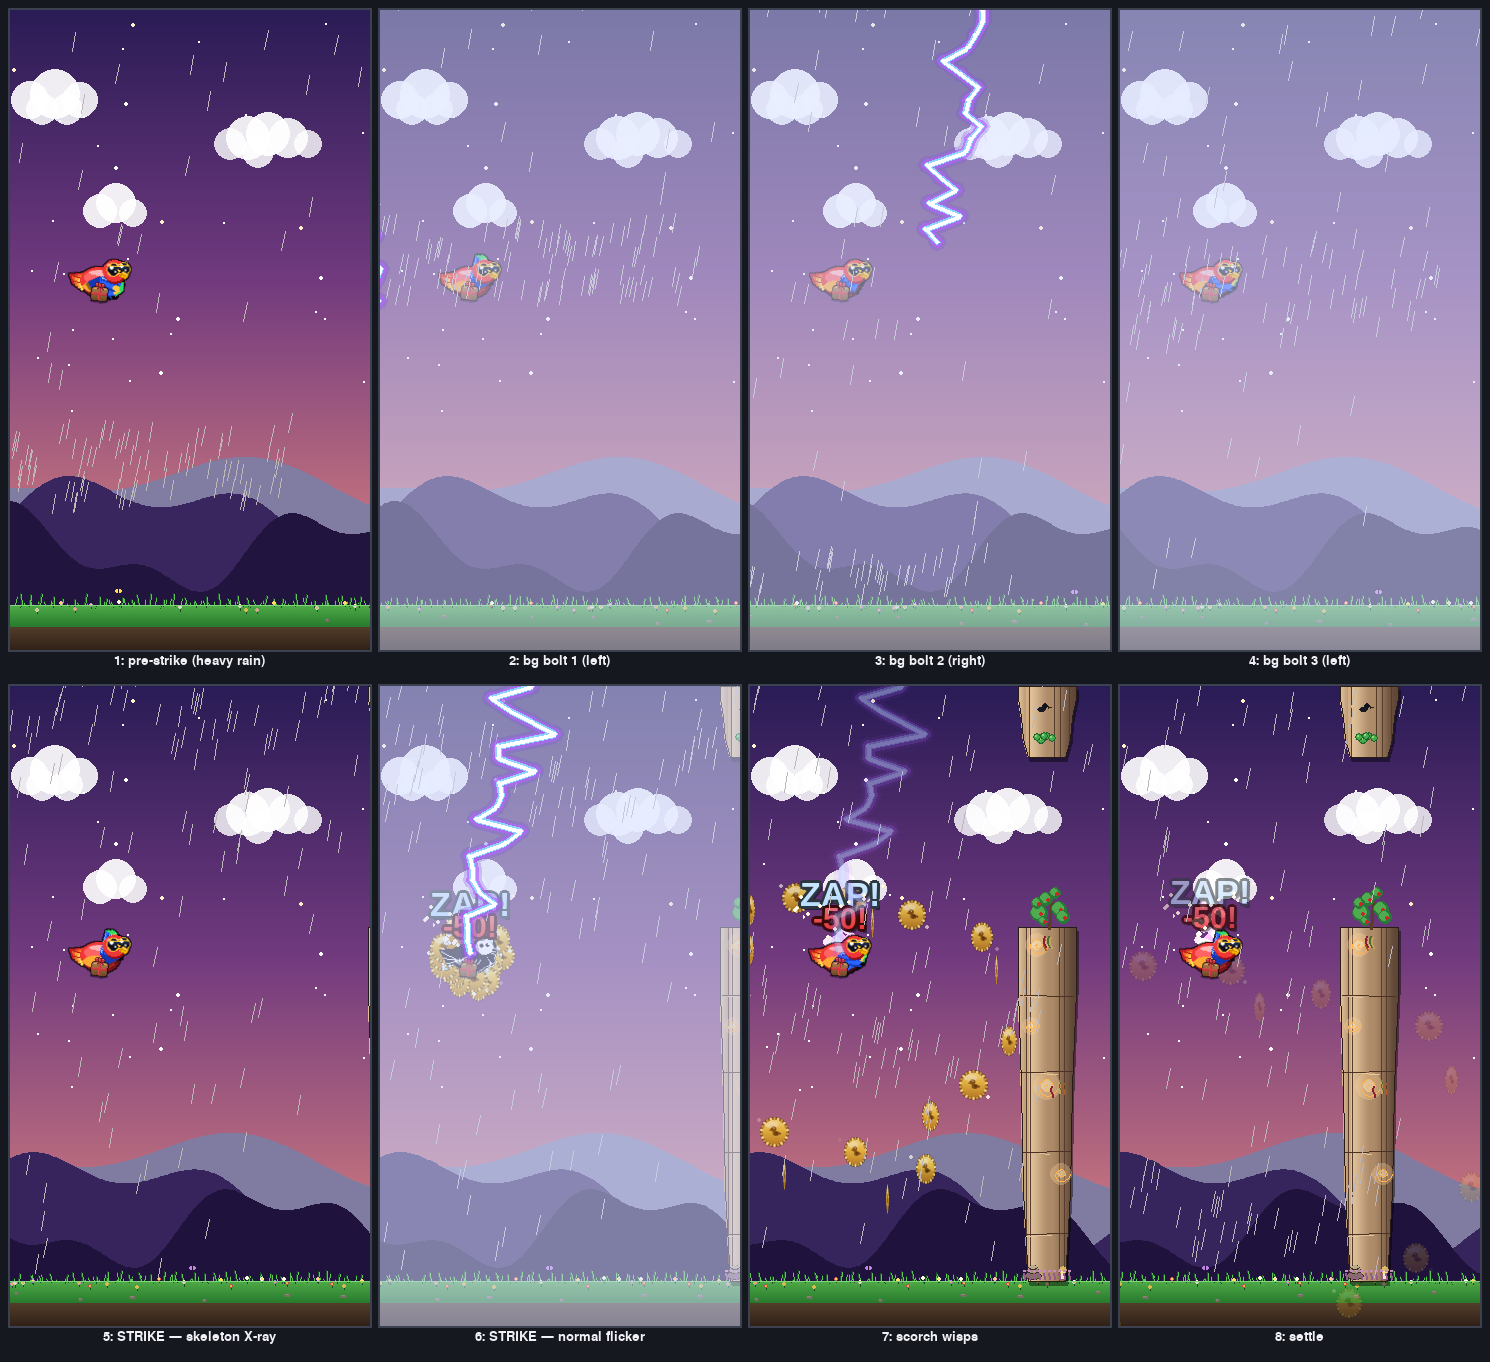
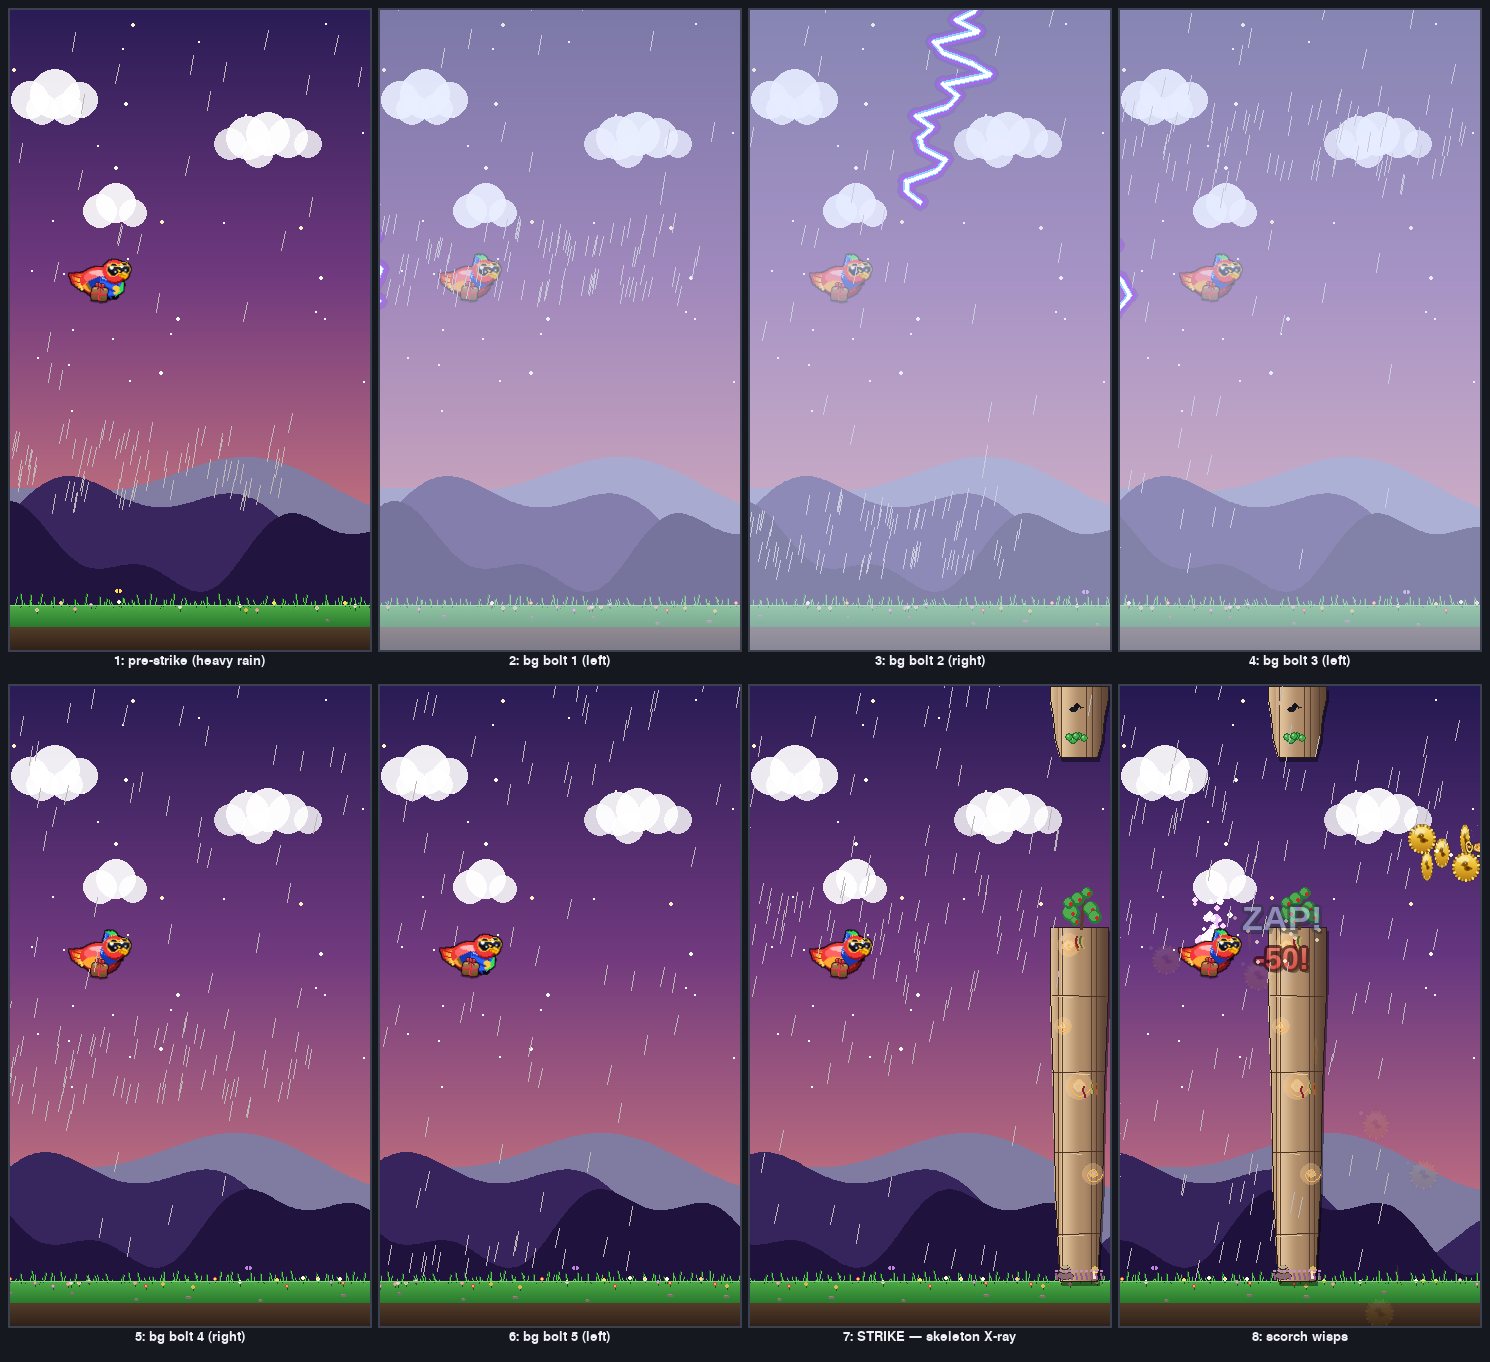
lightning: 5 buildup bolts + longer skeleton flash + text off Pip
Three playtest-driven refinements to the storm-jolt sequence:

1. FIVE background bolts instead of three.
   _start_storm_buildup queue extended from 3 → 5 bg events with
   accelerating tempo, alternating sides L/R/L/R/L:
       0.00 s bg_left
       0.50 s bg_right
       0.95 s bg_left
       1.40 s bg_right
       1.80 s bg_left
       2.30 s STRIKE (was 1.90 s in the 3-bolt version)
   Total buildup duration 1.9 → 2.3 s — more dramatic tension.

2. Skeleton flash extended + more readable.
   * Duration 0.50 s → 0.80 s.
   * Two-phase timing in Bird.draw:
       - First 0.5 s: SOLID skeleton hold (no strobe) so the X-ray
         view is unmistakably visible.
       - Last 0.3 s: ~6 Hz strobe (2-3 alternations) for the
         cartoon-flicker tail.
     Replaces the old uniform 10 Hz strobe that the player
     reported couldn't catch.
   * Scorch wisp timer bumped 0.7 → 1.0 s so the smoking
     aftermath persists for ~0.2 s after the flash ends.

3. ZAP! / -50! text moved off Pip.
   The float text was previously spawned directly above Pip
   (y - 48, y - 26) which sat on top of his 64 px sprite during
   the skeleton flash, occluding the bone silhouette. Both
   texts are now spawned at bird.x + 72 (well clear of Pip's
   right wing), stacked vertically (ZAP! at y - 22, -50! at
   y + 14). They still drift up with vy=-34/-30 so they end
   above-and-right of his head, leaving the skeleton view
   unobstructed for the full 0.8 s flash.
[…]

diff --git a/game/world.py b/game/world.py
@@ -1593,16 +1593,19 @@ class World:
 
     def _start_storm_buildup(self):
         """Telegraph the incoming strike with background lightning.
-        Queues 3 near-miss bolts on alternating sides (each a real
-        flash + bolt + light shake but NO coin loss) over ~1.4 s, then
-        the real `_fire_storm_jolt` lands at t=1.9 s. Lockout is set
+        Queues FIVE near-miss bolts on alternating sides (each a
+        real flash + bolt + light shake but NO coin loss), tempo
+        accelerating toward the strike for dramatic tension. The
+        real `_fire_storm_jolt` lands at t=2.30 s. Lockout is set
         immediately so the trigger can't re-fire mid-buildup; the
         25-second cooldown starts from the buildup, not the strike."""
         self._storm_buildup_seq = [
             (0.00, "bg_left"),
-            (0.60, "bg_right"),
-            (1.20, "bg_left"),
-            (1.90, "strike"),
+            (0.50, "bg_right"),
+            (0.95, "bg_left"),
+            (1.40, "bg_right"),
+            (1.80, "bg_left"),
+            (2.30, "strike"),
         ]
         self._storm_buildup_t = 0.0
         # Reserve the slot — prevents re-trigger during buildup.
@@ -1707,15 +1710,17 @@ class World:
         self.shake_t = max(self.shake_t, 0.55)
         # Lockout — one strike per ~25s of peak storm.
         self._storm_jolt_lockout = 25.0
-        # Scorch sub-state — smoke wisps off Pip for the next 0.7s.
-        self._lightning_scorch_t = 0.7
+        # Scorch sub-state — smoke wisps off Pip for the next 1.0 s
+        # (bumped from 0.7 s so the smoking aftermath persists for a
+        # beat after the skeleton flash ends).
+        self._lightning_scorch_t = 1.0
         self._scorch_smoke_accum = 0.0
-        # X-Ray Sparks flash — Pip's body flickers between his normal
-        # sprite and a dark-silhouette-plus-white-skeleton sprite at
-        # ~10Hz across 0.5s. Ends just before the scorch wisps finish
-        # so the visual reads as "electrocution moment → smoking
-        # aftermath".
-        self.bird.skeleton_flash_t = 0.50
+        # X-Ray Sparks flash — Pip's body shows the dark-silhouette-
+        # plus-white-skeleton sprite for 0.8 s. Held SOLID for the
+        # first ~0.5 s so the X-ray is clearly readable, then
+        # strobes at ~6 Hz for the last ~0.3 s for the cartoon
+        # electrocution flicker. Strobe logic lives in Bird.draw.
+        self.bird.skeleton_flash_t = 0.80
 
         # ── Coin blast: faster spread than the previous gust version
         # so the lightning impulse reads as the cause.
@@ -1751,13 +1756,18 @@ class World:
                 gravity=180,
             ))
 
-        # ── Text: cyan ZAP! above the red -50!
+        # ── Text: cyan ZAP! + red -50! — placed well to the RIGHT
+        # of Pip (clear of his 64 px sprite width) so the X-Ray
+        # Sparks skeleton flicker stays unobstructed during the
+        # 0.8 s flash. Both drift up over their life so they end
+        # above-and-right of his head.
         self.float_texts.append(FloatText(
-            "ZAP!", self.bird.x, self.bird.y - 48, (180, 220, 255),
+            "ZAP!", self.bird.x + 72, self.bird.y - 22,
+            (180, 220, 255),
             size=34, life=1.2, vy=-34, style="powerup",
         ))
         self.float_texts.append(FloatText(
-            f"-{lost}!", self.bird.x, self.bird.y - 26, UI_RED,
+            f"-{lost}!", self.bird.x + 72, self.bird.y + 14, UI_RED,
             size=30, life=1.4, vy=-30, style="powerup",
         ))
 

diff --git a/tools/render_lightning_sequence.py b/tools/render_lightning_sequence.py
@@ -114,65 +114,39 @@ def main():
     panels.append(surf)
     labels.append("1: pre-strike (heavy rain)")
 
-    # 2-4) background bolts 1, 2, 3 — kick off the buildup, freeze on
-    #      each fresh bolt
+    # 2-6) the five background bolts. Buildup fires at
+    # 0.00 / 0.50 / 0.95 / 1.40 / 1.80 s. For each, capture the
+    # frame just after it fires with the bolt's life still ≈
+    # life_max so the zig-zag shape reads.
     w, by = setup_world()
     w._storm_jolt_lockout = 0
     w._start_storm_buildup()
-    # Frame just after bg #1 fires (life still ≈ life_max)
+    sides = ("left", "right", "left", "right", "left")
+    deltas = (0.00, 0.50, 0.95, 1.40, 1.80)
+    cur_t = 0.0
+    for i, (target_t, side_lab) in enumerate(zip(deltas, sides)):
+        advance(w, by, max(0.0, target_t - cur_t), hold_lightning=False)
+        advance(w, by, 0.04, hold_lightning=True)
+        cur_t = target_t + 0.04
+        surf = pygame.Surface((W, H))
+        render_world(w, surf)
+        panels.append(surf)
+        labels.append(f"{i + 2}: bg bolt {i + 1} ({side_lab})")
+
+    # 7) real strike — capture mid-flash with skeleton VISIBLE
+    advance(w, by, 2.30 - cur_t, hold_lightning=False)
     advance(w, by, 0.04, hold_lightning=True)
     surf = pygame.Surface((W, H))
     render_world(w, surf)
     panels.append(surf)
-    labels.append("2: bg bolt 1 (left)")
+    labels.append("7: STRIKE — skeleton X-ray")
 
-    # Advance to bg #2
-    advance(w, by, 0.60 - 0.04, hold_lightning=False)
-    advance(w, by, 0.04, hold_lightning=True)
+    # 8) scorch wisps aftermath
+    advance(w, by, 0.95, hold_lightning=False)
     surf = pygame.Surface((W, H))
     render_world(w, surf)
     panels.append(surf)
-    labels.append("3: bg bolt 2 (right)")
-
-    # Advance to bg #3
-    advance(w, by, 0.60 - 0.04, hold_lightning=False)
-    advance(w, by, 0.04, hold_lightning=True)
-    surf = pygame.Surface((W, H))
-    render_world(w, surf)
-    panels.append(surf)
-    labels.append("4: bg bolt 3 (left)")
-
-    # 5) real strike — capture mid-flash with skeleton VISIBLE
-    advance(w, by, 0.70 - 0.04, hold_lightning=False)
-    advance(w, by, 0.04, hold_lightning=True)
-    # At this point bird.skeleton_flash_t was just set to 0.50; the
-    # strobe modulo evaluates (elapsed=0.04 → bucket 0 → skeleton)
-    surf = pygame.Surface((W, H))
-    render_world(w, surf)
-    panels.append(surf)
-    labels.append("5: STRIKE — skeleton X-ray")
-
-    # 6) real strike — same strike, advance to a frame where the
-    #    strobe shows the NORMAL sprite (odd bucket)
-    advance(w, by, 0.12, hold_lightning=True)   # bucket 1
-    surf = pygame.Surface((W, H))
-    render_world(w, surf)
-    panels.append(surf)
-    labels.append("6: STRIKE — normal flicker")
-
-    # 7) post-strike — skeleton flash ended, scorch wisps active
-    advance(w, by, 0.45, hold_lightning=False)
-    surf = pygame.Surface((W, H))
-    render_world(w, surf)
-    panels.append(surf)
-    labels.append("7: scorch wisps")
-
-    # 8) settle
-    advance(w, by, 0.30, hold_lightning=False)
-    surf = pygame.Surface((W, H))
-    render_world(w, surf)
-    panels.append(surf)
-    labels.append("8: settle")
+    labels.append("8: scorch wisps")
 
     # ── Contact sheet ───────────────────────────────────────────
     cols, rows = 4, 2

diff --git a/game/entities.py b/game/entities.py
@@ -925,17 +925,25 @@ class Bird:
         # combos before single-mode flags so e.g. kfc+triple picks the
         # crispy-hat sprite instead of falling through to plain kfc.
         # X-RAY SPARKS wins over EVERYTHING (including phoenix) — the
-        # storm-jolt strike is a special, momentary event and during the
-        # 0.5s flicker Pip's normal/powered-up identity is overridden by
-        # the classic Looney-Tunes electrocution silhouette. Strobe
-        # modulo at ~10 Hz alternates skeleton (even buckets) with the
-        # normal sprite (odd buckets) so the eye reads 3 distinct
-        # X-ray glimpses across the half-second.
+        # storm-jolt strike is a special, momentary event and during
+        # the 0.8 s flash Pip's normal/powered-up identity is
+        # overridden by the classic Looney-Tunes electrocution
+        # silhouette. Two-phase timing:
+        #   * First 0.5 s — SOLID skeleton hold (no strobe) so the
+        #     X-ray view is unambiguously readable.
+        #   * Last 0.3 s — strobe at ~6 Hz (≈ 2 alternations) so the
+        #     effect releases with a cartoon flicker into the normal
+        #     Pip sprite + scorch wisps.
         skeleton_visible = False
         if self.skeleton_flash_t > 0.0:
-            elapsed = 0.5 - self.skeleton_flash_t
-            bucket = int(elapsed * 10.0)
-            skeleton_visible = (bucket % 2 == 0)
+            if self.skeleton_flash_t > 0.3:
+                # Solid hold phase — first 0.5 s of the 0.8 s window
+                skeleton_visible = True
+            else:
+                # Strobe phase — last 0.3 s, ~6 Hz alternation
+                elapsed_strobe = 0.3 - self.skeleton_flash_t
+                bucket = int(elapsed_strobe * 12.0)
+                skeleton_visible = (bucket % 2 == 0)
         if skeleton_visible:
             img = parrot.get_skeleton_parrot(frame_idx, tilt)
         elif self.phoenix_active:
